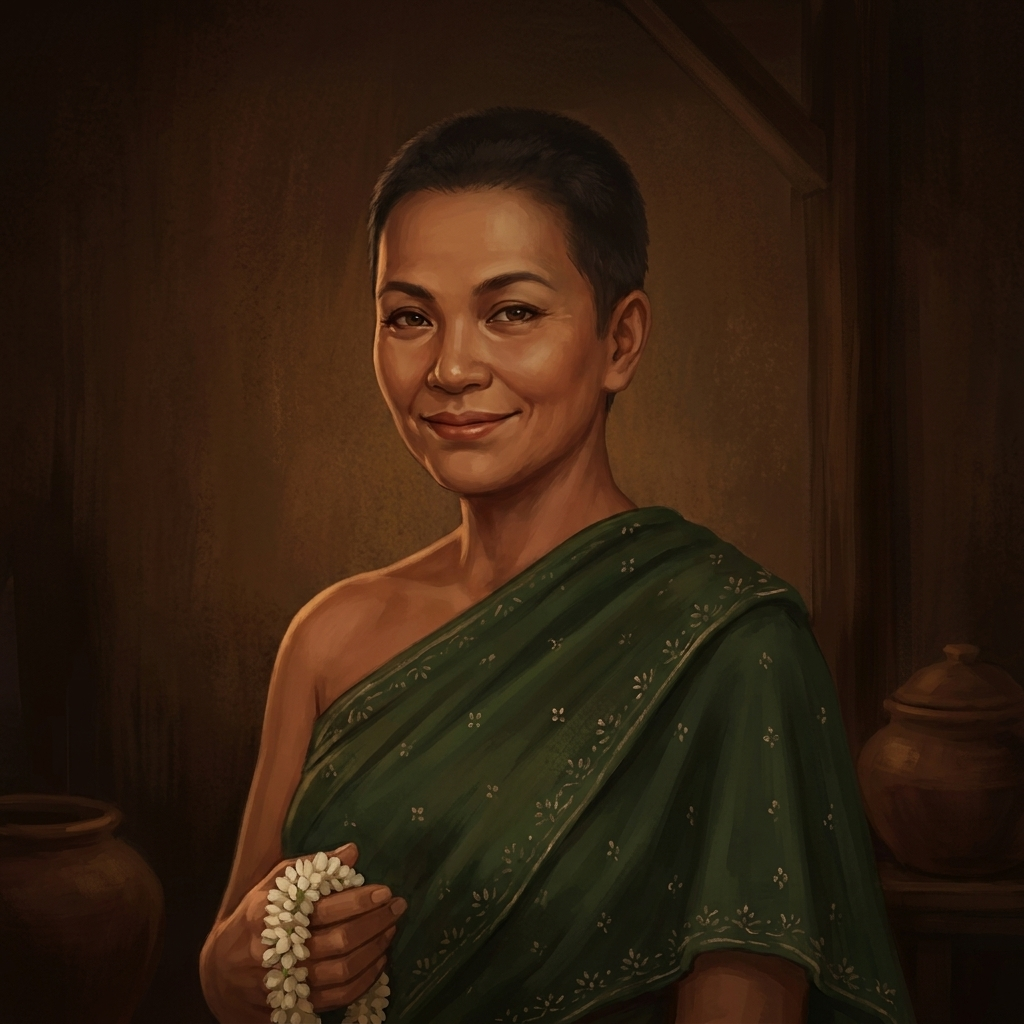
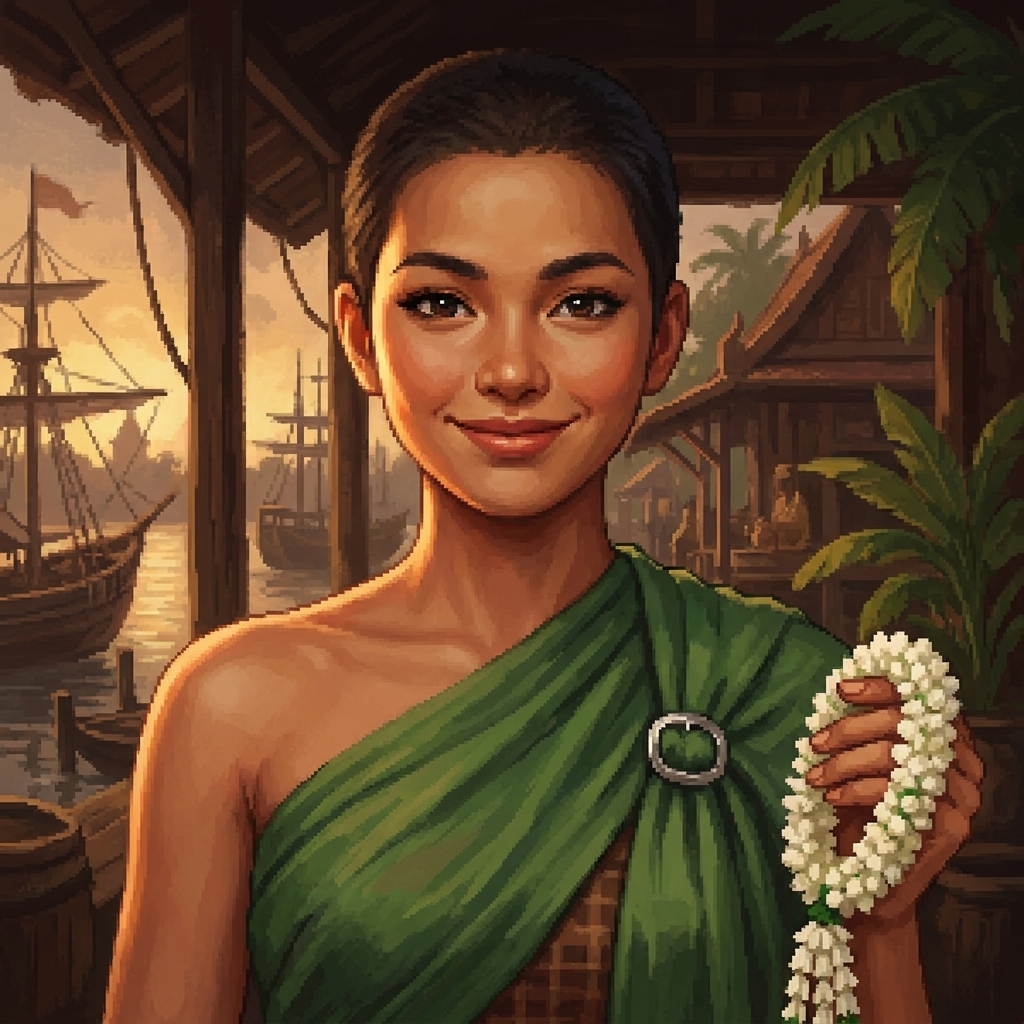
Smooth walking, clear labels, side-on conversations, younger Mae Im
Walking:
- Waypoints are dropped in the same simulation step, so click-to-walk
  no longer pauses and re-accelerates every 35 cm.
- Movement is sub-stepped from each frame's real time instead of fixed
  1/60 s ticks, so no rendered frame goes without movement.
- Routes are string-pulled to the turns they need, and facing keeps its
  axis until the other clearly dominates (no flicker on diagonals).

Characters:
- The captain walks to the nearer side of a character and turns to
  face them, instead of standing on top of them; NPC footprints are
  wider so sprites never overlap.
- Name labels sit above the taller sprites and hide while that
  character's name is on the talk button.
- Mae Im's Gemini portrait regenerated as a young woman.

Claude-Session: https://claude.ai/code/session_01GzwHrQ8CtrcQje8D54RJ7B

diff --git a/dist/engine/courtyard.js b/dist/engine/courtyard.js
@@ -2,7 +2,7 @@ import * as THREE from 'three';
 import {createRuntime} from './runtime.js';
 import {createCourtyard} from './courtyard-scene.js';
 import {createActors} from './actors.js';
-import {fresh,restore,move,nearest,act,route,POINTS} from './courtyard-state.js';
+import {fresh,restore,move,nearest,act,route,POINTS,approachRoute,faceToward} from './courtyard-state.js';
 import {QUAY_CAST,quayLine,text as say} from '../data/narai-story.js';
 const $=id=>document.getElementById(id),keys=new Set(),saveKey='narai-courtyard-v1';
 let lang='en',s=fresh();try{lang=localStorage.getItem('narai-language')==='th'?'th':'en';s=restore(JSON.parse(localStorage.getItem(saveKey)));}catch{}
@@ -37,7 +37,7 @@ function strike(){if(dialog.open||attackAge<.65)return;const p=POINTS.find(p=>p.
  // Audio begins only on user interaction and remains a short, quiet impact cue.
  try{audio??=new(window.AudioContext||window.webkitAudioContext)();audio.resume();const osc=audio.createOscillator(),gain=audio.createGain();osc.type='triangle';osc.frequency.setValueAtTime(220,audio.currentTime);osc.frequency.exponentialRampToValueAtTime(65,audio.currentTime+.13);gain.gain.setValueAtTime(.08,audio.currentTime);gain.gain.exponentialRampToValueAtTime(.001,audio.currentTime+.16);osc.connect(gain).connect(audio.destination);osc.start();osc.stop(audio.currentTime+.17);}catch{}
 }
-function approach(p){if(dialog.open)return;keys.clear();path=route(s,{x:p.x,z:p.z+.95});pending=p.id;}
+function approach(p){if(dialog.open)return;keys.clear();path=approachRoute(s,p,!!CAST[p.id]);pending=p.id;}
 $('language').onclick=()=>{lang=lang==='en'?'th':'en';try{localStorage.setItem('narai-language',lang);}catch{}labels();};
 $('time').onclick=()=>{evening=!evening;world?.setEvening(evening);labels();};$('quality').onclick=()=>{runtime?.setQuality(!runtime.enhanced);labels();};$('interact').onclick=interact;$('attack').onclick=strike;$('reload').onclick=()=>location.reload();
 function blocked(){return dialog.open||!world;}
@@ -57,11 +57,12 @@ try{
  runtime.camera.position.set(0,16*LENS,23*LENS);runtime.camera.lookAt(0,0,0);$('loading').hidden=true;labels();canvas.focus();
  let previous=performance.now(),accumulator=0;const center=new THREE.Vector3(0,0,0),desired=new THREE.Vector3(),projected=new THREE.Vector3();
  function frame(now){raf=requestAnimationFrame(frame);const dt=Math.min((now-previous)/1000,.05);previous=now;if(document.hidden)return;time+=dt;attackAge+=dt;let moving=false;
- if(!blocked()){accumulator+=dt;while(accumulator>=1/60){accumulator-=1/60;let dx=(keys.has('d')||keys.has('arrowright')?1:0)-(keys.has('a')||keys.has('arrowleft')?1:0),dz=(keys.has('s')||keys.has('arrowdown')?1:0)-(keys.has('w')||keys.has('arrowup')?1:0);
- if(dx||dz){path=[];pending=null;}else if(path.length){const p=path[0];const x=p.x-s.x,z=p.z-s.z;if(Math.hypot(x,z)<.06)path.shift();else{dx=x;dz=z;}}
- moving=move(s,dx,dz,1/60)||moving;
- if(!path.length&&pending){const p=POINTS.find(p=>p.id===pending);pending=null;if(Math.hypot(p.x-s.x,p.z-s.z)<1.85){if(p.id==='training')strike();else showDialogue(p.id);}}
- }}else accumulator=0;
+ if(!blocked()){const steps=Math.max(1,Math.ceil(dt*60)),h=dt/steps;for(let i=0;i<steps;i++){let dx=(keys.has('d')||keys.has('arrowright')?1:0)-(keys.has('a')||keys.has('arrowleft')?1:0),dz=(keys.has('s')||keys.has('arrowdown')?1:0)-(keys.has('w')||keys.has('arrowup')?1:0);
+ // Reached waypoints are dropped in the same step, so the captain never pauses (or re-accelerates) between them.
+ if(dx||dz){path=[];pending=null;}else{while(path.length&&Math.hypot(path[0].x-s.x,path[0].z-s.z)<.06)path.shift();if(path.length){dx=path[0].x-s.x;dz=path[0].z-s.z;}}
+ moving=move(s,dx,dz,h)||moving;
+ if(!path.length&&pending){const p=POINTS.find(p=>p.id===pending);pending=null;if(Math.hypot(p.x-s.x,p.z-s.z)<1.85){if(p.id==='training')strike();else{if(CAST[p.id])faceToward(s,p);showDialogue(p.id);}}}
+ }}
  // Wide diorama view by default (the whole courtyard, as in the original); wheel or +/- zooms toward a close follow view.
  const lerp=THREE.MathUtils.lerp,clamp=THREE.MathUtils.clamp;
  desired.set(lerp(clamp(s.x*.45,-3.8,3.8),clamp(s.x*.85,-6.5,6.5),zoom),0,lerp(clamp(s.z*.42,-4.5,2.7),clamp(s.z*.5-1.5,-7.2,3),zoom));center.lerp(desired,reduced?1:1-Math.exp(-dt*3.5));const distance=lerp(s.room?18:23,s.room?9.5:12.5,zoom)*LENS;
@@ -70,7 +71,7 @@ try{
  const power=attackAge<.65?Math.sin(attackAge/.65*Math.PI):0;effect.material.opacity=power;effect.rotation.z=-attackAge*9;effect.scale.setScalar(.7+Math.min(attackAge,1)*1.5);flash.intensity=power*45;sparks.material.opacity=power;
  const positions=sparks.geometry.attributes.position;for(let i=0;i<32;i++){const a=i*2.4,r=attackAge<1?attackAge*2.6:0;positions.setXYZ(i,5.5+Math.cos(a)*r,1.4+Math.sin(a)*r-attackAge*attackAge,4.7+Math.sin(i)*r*.4);}positions.needsUpdate=true;
  const n=nearest(s);$('interact').textContent=n.distance<1.85?`${t(n.id)} · E`:t('interact');
- for(const p of POINTS){const b=markerButtons.get(p.id);const visible=p.id==='ledger'?s.room:!s.room;b.hidden=!visible;if(visible){projected.set(p.x,p.id==='ledger'?1.4:2.05,p.z).project(runtime.camera);b.style.left=`${(projected.x*.5+.5)*innerWidth}px`;b.style.top=`${(-projected.y*.5+.5)*innerHeight}px`;b.hidden=projected.z>1||Math.abs(projected.x)>.95||projected.y>.68||projected.y<-.83;b.classList.toggle('active',n.id===p.id&&n.distance<1.85);}}
+ for(const p of POINTS){const b=markerButtons.get(p.id);const visible=p.id==='ledger'?s.room:!s.room;b.hidden=!visible;if(visible){projected.set(p.x,p.id==='ledger'?1.4:CAST[p.id]?2.95:2.05,p.z).project(runtime.camera);b.style.left=`${(projected.x*.5+.5)*innerWidth}px`;b.style.top=`${(-projected.y*.5+.5)*innerHeight}px`;const near=n.id===p.id&&n.distance<1.85;b.hidden=projected.z>1||Math.abs(projected.x)>.95||projected.y>.68||projected.y<-.83||(near&&!!CAST[p.id]);b.classList.toggle('active',near);}}
  runtime.renderer.info.autoReset=false;runtime.renderer.info.reset();runtime.render({x:s.x,y:1,z:s.z});frames++;elapsed+=dt;
  if(elapsed>=1){fps=Math.round(frames/elapsed);frames=elapsed=0;$('stats').textContent=`${fps} fps · ${runtime.renderer.info.render.calls} draws\n${Math.round(runtime.renderer.info.render.triangles/1000)}k triangles\n${runtime.renderer.info.memory.textures} textures`;}
  }

diff --git a/dist/engine/courtyard-state.js b/dist/engine/courtyard-state.js
@@ -11,8 +11,8 @@ export const POINTS=[
 // Architectural solids; the pavilion doorway is the gap x=-1.4..1.4.
 export const BLOCKS=[
  [-3.22,-4,3.55,.28],[3.22,-4,3.55,.28],[0,-10,10,.3],[-5,-7,.3,6],[5,-7,.3,6],
- [-2,-7.9,2.5,1.4],[2.95,-9.55,2.7,.8],[-3.5,2.1,.5,.5],[5.5,4.5,.6,.6],
- [-7,6,2,1.4],[-8,-7,3,2],[-5.4,-.4,.5,.5],[6.6,.4,.5,.5]
+ [-2,-7.9,2.5,1.4],[2.95,-9.55,2.7,.8],[-3.5,2.1,1,.6],[5.5,4.5,.6,.6],
+ [-7,6,2,1.4],[-8,-7,3,2],[-5.4,-.4,1,.6],[6.6,.4,1,.6]
 ];
 export const inside=p=>p.z< -3.75&&p.z> -9.8&&Math.abs(p.x)<4.8;
 export function walkable(x,z){return x>-11.6&&x<9.7&&z>-10.6&&z<10.8&&!BLOCKS.some(([bx,bz,w,d])=>Math.abs(x-bx)<w/2+.26&&Math.abs(z-bz)<d/2+.26);}
@@ -21,13 +21,22 @@ export function restore(value){const s=fresh();if(value&&['meet','ledger','retur
 // Free 8-way movement (as in HD-2D towns): diagonals are normalised, walls are slid along, and speed
 // eases in over ~80 ms. Facing follows the dominant axis, keeping the current one on exact diagonals.
 export const SPEED=3.4;
+// Where the captain stands to talk: beside a character (nearer side first, as in HD-2D towns, so the sprites
+// never overlap on screen), or in front of objects. Returns the first reachable spot, or [] if none.
+export const APPROACH=1.25,SIDE=1.3;
+export function approachRoute(s,p,isPerson){
+ const sides=isPerson?(s.x<p.x?[-SIDE,SIDE]:[SIDE,-SIDE]).map(dx=>({x:p.x+dx,z:p.z+.15})):[];
+ for(const spot of[...sides,{x:p.x,z:p.z+APPROACH}]){const r=route(s,spot);if(r.length)return r;}
+ return [];
+}
+export function faceToward(s,p){const dx=p.x-s.x,dz=p.z-s.z;s.facing=Math.abs(dx)>Math.abs(dz)?(dx<0?'left':'right'):(dz<0?'up':'down');}
 export function move(s,dx,dz,dt){
  if(!Number.isFinite(dt)||dt<=0)return false;
  dt=Math.min(dt,.05);const len=Math.hypot(dx,dz);
  if(!len){s.v=0;return false;}
  dx/=len;dz/=len;s.v=Math.min(1,(s.v||0)+dt/.08);
  const ax=Math.abs(dx),az=Math.abs(dz),vertical=s.facing==='up'||s.facing==='down';
- if(az>ax+.01||(Math.abs(ax-az)<=.01&&vertical))s.facing=dz<0?'up':'down';else s.facing=dx<0?'left':'right';
+ if(vertical?az>=ax*.77:az>ax*1.3)s.facing=dz<0?'up':'down';else s.facing=dx<0?'left':'right';
  const step=dt*SPEED*s.v;
  for(const[mx,mz]of[[dx,dz],[dx,0],[0,dz]]){if(!mx&&!mz)continue;const x=s.x+mx*step,z=s.z+mz*step;if(walkable(x,z)){s.x=x;s.z=z;s.room=inside(s);return true;}}
  return false;
@@ -49,5 +58,11 @@ export function route(start,end){
   const [x,z]=q[i];if(x===ex&&z===ez){found=[x,z];break;}
   for(const[dx,dz]of[[0,1],[1,0],[0,-1],[-1,0],[1,1],[1,-1],[-1,1],[-1,-1]]){const nx=x+dx,nz=z+dz,k=key(nx,nz);if(seen.has(k)||!walkable(nx*unit,nz*unit))continue;if(dx&&dz&&!(walkable((x+dx)*unit,z*unit)&&walkable(x*unit,(z+dz)*unit)))continue;seen.set(k,[x,z]);q.push([nx,nz]);}
  }
- if(!found)return [];const points=[];while(found){points.push({x:found[0]*unit,z:found[1]*unit});found=seen.get(key(...found));}return points.reverse();
+ if(!found)return [];const points=[];while(found){points.push({x:found[0]*unit,z:found[1]*unit});found=seen.get(key(...found));}points.reverse();
+ return smooth(points);
 }
+// A straight segment is clear when samples every 5 cm along it are walkable.
+function clear(a,b){const n=Math.ceil(Math.hypot(b.x-a.x,b.z-a.z)/.05);for(let i=1;i<=n;i++){const t=i/n;if(!walkable(a.x+(b.x-a.x)*t,a.z+(b.z-a.z)*t))return false;}return true;}
+function smooth(points){if(points.length<3)return points;const out=[points[0]];let i=0;
+ while(i<points.length-1){let j=points.length-1;while(j>i+1&&!clear(points[i],points[j]))j--;out.push(points[j]);i=j;}
+ return out;}

diff --git a/tests/courtyard.test.js b/tests/courtyard.test.js
@@ -1,8 +1,10 @@
 import test from 'node:test';import assert from 'node:assert/strict';
-import {fresh,restore,move,walkable,inside,route,act,POINTS} from '../dist/engine/courtyard-state.js';
+import {fresh,restore,move,walkable,inside,route,act,POINTS,approachRoute} from '../dist/engine/courtyard-state.js';
 test('diagonal input moves at the same speed as straight input; long frames are clamped',()=>{const a=fresh(),b=fresh();for(let i=0;i<10;i++){move(a,1,1,3);move(b,0,-1,3);}const da=Math.hypot(a.x-fresh().x,a.z-fresh().z),db=Math.hypot(b.x-fresh().x,b.z-fresh().z);assert.ok(Math.abs(da-db)<1e-9);assert.ok(db<=10*.05*3.4+1e-9&&db>1);assert.equal(b.facing,'up');});
 test('movement slides along walls instead of stopping',()=>{const s={...fresh(),x:-3.2,z:-3.5,facing:'up'};const before=s.x;for(let i=0;i<20;i++)move(s,.3,-1,1/60);assert.ok(s.x>before);assert.ok(walkable(s.x,s.z));});
 test('walls block travel while the doorway connects courtyard to interior',()=>{assert.equal(walkable(-3.2,-4),false);assert.equal(walkable(0,-4),true);assert.equal(inside({x:0,z:-5}),true);assert.ok(route(fresh(),{x:-2,z:-5.1}).length>0);});
-test('every interaction can be approached from spawn without crossing solids',()=>{for(const p of POINTS){const path=route(fresh(),{x:p.x,z:p.z+.95});assert.ok(path.length,p.id);for(const point of path)assert.ok(walkable(point.x,point.z),p.id);}});
+test('every interaction can be approached from spawn along clear straight segments',()=>{for(const p of POINTS){const path=approachRoute(fresh(),p,['official','merchant','innkeeper'].includes(p.id));const end=path.at(-1);assert.ok(Math.hypot(end.x-p.x,end.z-p.z)<1.85,p.id);assert.ok(path.length,p.id);for(let i=1;i<path.length;i++){const a=path[i-1],b=path[i];for(let t=0;t<=1;t+=.02)assert.ok(walkable(a.x+(b.x-a.x)*t,a.z+(b.z-a.z)*t),p.id);}}});
+test('smoothed routes keep only the turns they need',()=>{const open=route(fresh(),{x:0,z:1});assert.equal(open.length,2);const door=route(fresh(),{x:-2,z:-5.1});assert.ok(door.length>=3&&door.length<12);});
+test('walking a shallow diagonal does not flicker the facing',()=>{const s={...fresh(),facing:'up'};const seen=new Set();for(let i=0;i<30;i++){move(s,i%2?.9:1.1,-1,1/60);seen.add(s.facing);}assert.deepEqual([...seen],['up']);});
 test('quest requires proximity and sequence, preserves both endings',()=>{for(const choice of ['share','keep']){const s=fresh();assert.equal(act(s,'official'),false);Object.assign(s,{x:-3.5,z:3});assert.equal(act(s,'official'),true);assert.equal(act(s,'official',choice),false);Object.assign(s,{x:-2,z:-5.1});assert.equal(act(s,'ledger'),true);Object.assign(s,{x:-3.5,z:3});assert.equal(act(s,'official',choice),true);assert.equal(act(s,'official',choice),false);assert.equal(restore(s).choice,choice);assert.equal(restore(s).quest,'complete');}});
 test('bad save cannot place captain outside world or skip quest',()=>{const s=restore({x:Infinity,quest:'invalid'});assert.deepEqual(s,fresh());});

diff --git a/scripts/gemini-portraits.py b/scripts/gemini-portraits.py
@@ -31,7 +31,7 @@ CAST = {
                  'dignified, courteous and shrewd.'),
     'merchant': ('merchant-south', 'Tan Heng, a plump, good-humoured Chinese junk merchant: dark blue-grey long robe, black skullcap, '
                  'moustache, an abacus at his belt; a trader\'s knowing smile.'),
-    'innkeeper': ('innkeeper-south', 'Mae Im, a warm middle-aged Siamese woman who keeps a riverside lodge: short cropped hair, green '
+    'innkeeper': ('innkeeper-south', 'Mae Im, a young Siamese woman in her early twenties who keeps a riverside lodge: youthful face, bright eyes, short cropped hair, green '
                   'pha sabai breast cloth draped over one shoulder, a jasmine garland in her hand; a kind, teasing smile.'),
 }
 

diff --git a/art/portraits/README.md b/art/portraits/README.md
@@ -6,3 +6,5 @@ Painted portraits generated with the Gemini API (`gemini-3-pro-image`), Septembe
 - `dist/assets/siam-portraits.jpg`: 512 px cells in that order, used by the courtyard dialogue box.
 
 Regenerate one: `python scripts/gemini-portraits.py merchant` (needs Pillow and a Gemini credential, either a `GEMINI_API_KEY` variable or one the session proxy adds for `generativelanguage.googleapis.com`).
+
+Mae Im's portrait was regenerated after playtest feedback to show her as a young woman in her early twenties.
